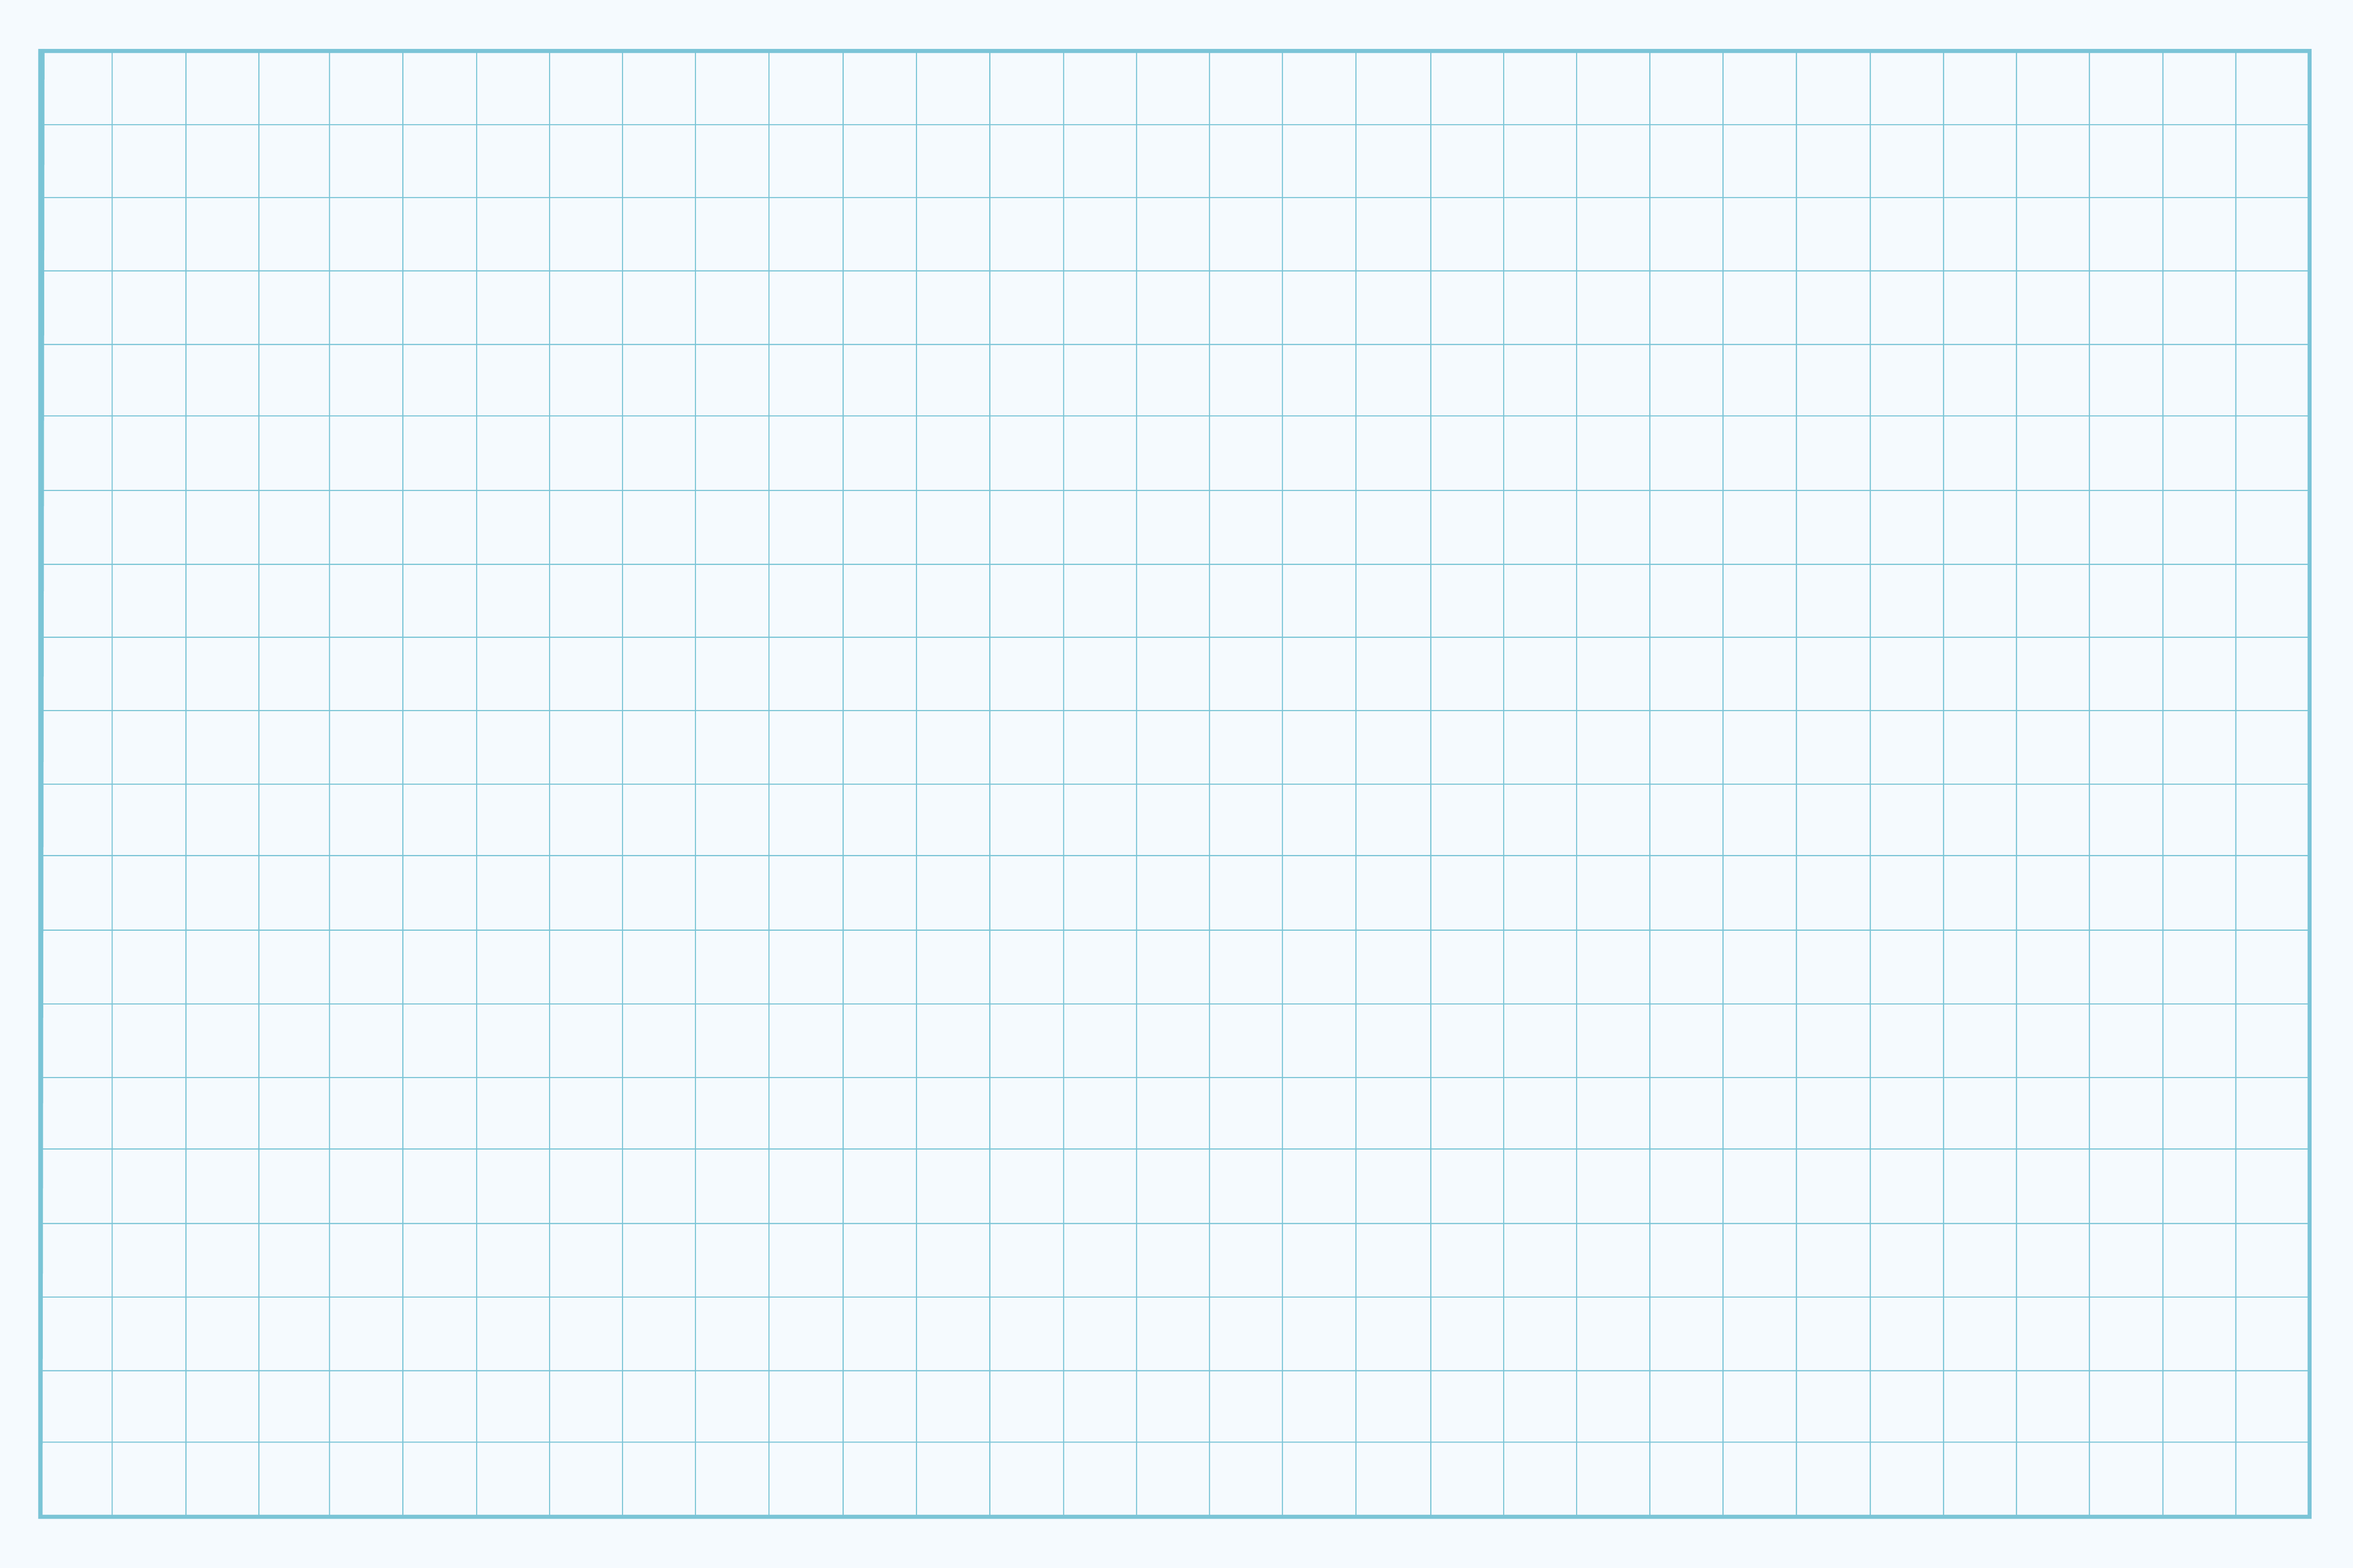
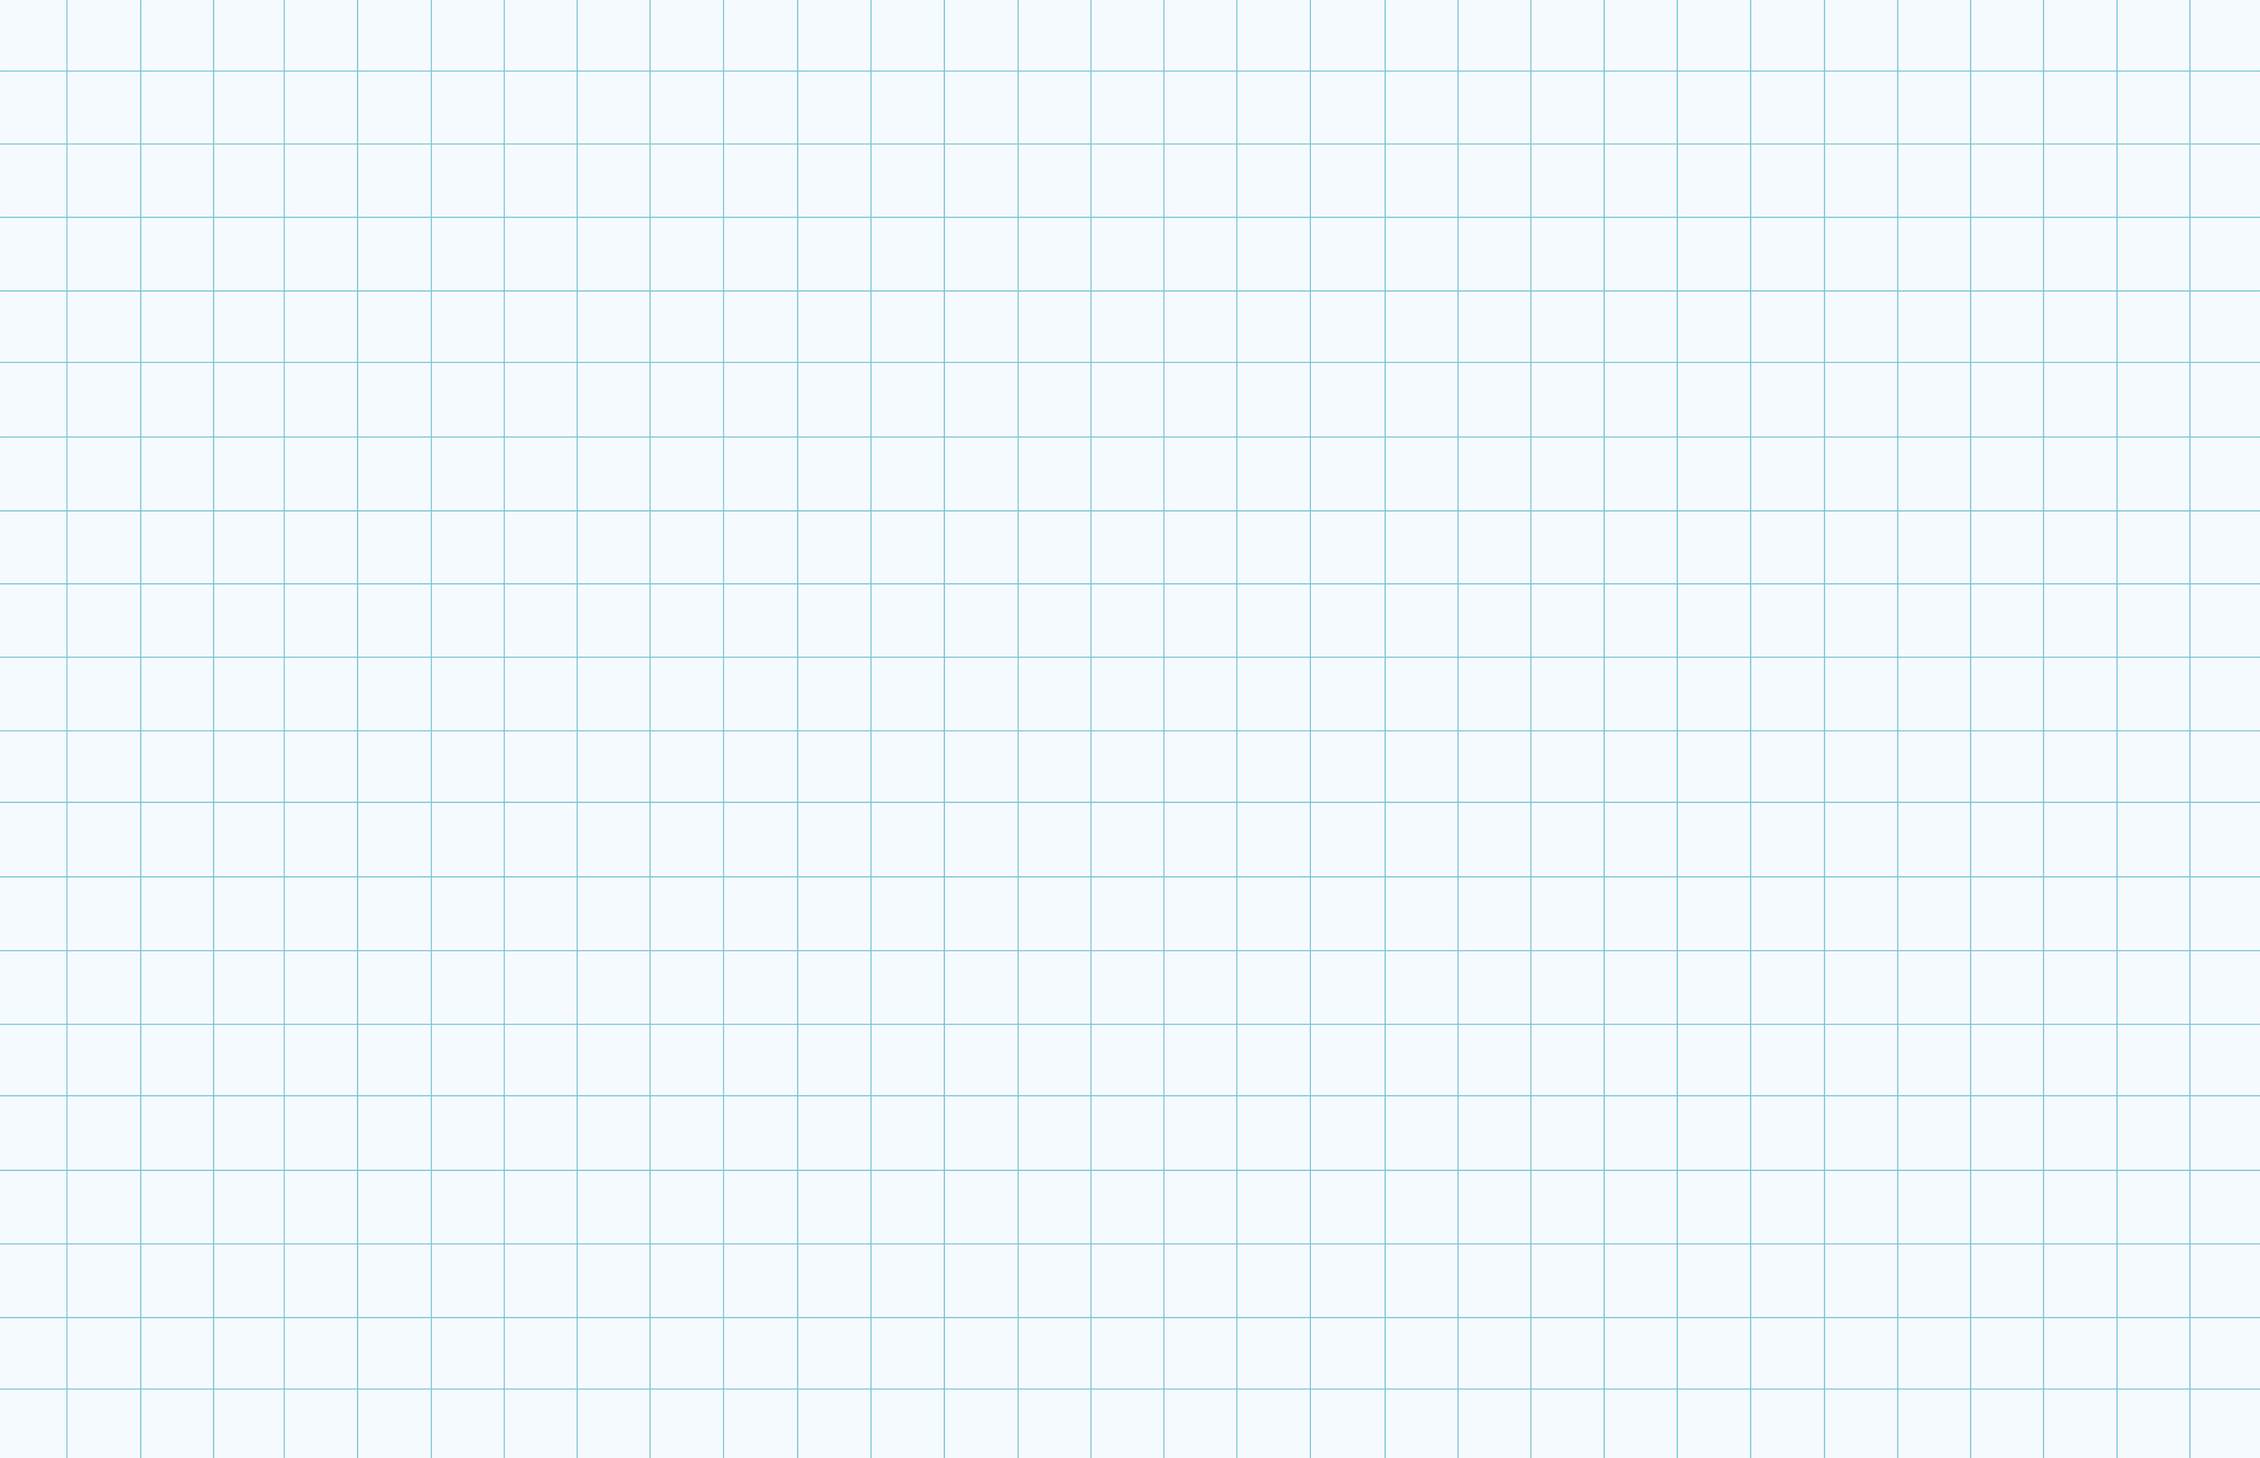
update background image size

diff --git a/output.css b/output.css
@@ -203,9 +203,6 @@
   .m-16 {
     margin: calc(var(--spacing) * 16);
   }
-  .mx-4 {
-    margin-inline: calc(var(--spacing) * 4);
-  }
   .mt-0 {
     margin-top: calc(var(--spacing) * 0);
   }
@@ -220,9 +217,6 @@
   }
   .mt-20 {
     margin-top: calc(var(--spacing) * 20);
-  }
-  .mt-24 {
-    margin-top: calc(var(--spacing) * 24);
   }
   .mb-6 {
     margin-bottom: calc(var(--spacing) * 6);
@@ -258,9 +252,6 @@
     width: 100%;
   }
   .flex-grow {
-    flex-grow: 1;
-  }
-  .grow {
     flex-grow: 1;
   }
   .-rotate-6 {
@@ -308,21 +299,8 @@
   .overscroll-y-none {
     overscroll-behavior-y: none;
   }
-  .border-t {
-    border-top-style: var(--tw-border-style);
-    border-top-width: 1px;
-  }
-  .border-\[\#004466\] {
-    border-color: #004466;
-  }
   .bg-white {
     background-color: var(--color-white);
-  }
-  .bg-white\/50 {
-    background-color: color-mix(in srgb, #fff 50%, transparent);
-    @supports (color: color-mix(in lab, red, red)) {
-      background-color: color-mix(in oklab, var(--color-white) 50%, transparent);
-    }
   }
   .p-2 {
     padding: calc(var(--spacing) * 2);
@@ -339,11 +317,8 @@
   .py-1 {
     padding-block: calc(var(--spacing) * 1);
   }
-  .py-2 {
-    padding-block: calc(var(--spacing) * 2);
-  }
-  .py-8 {
-    padding-block: calc(var(--spacing) * 8);
+  .py-4 {
+    padding-block: calc(var(--spacing) * 4);
   }
   .pb-2 {
     padding-bottom: calc(var(--spacing) * 2);
@@ -389,9 +364,6 @@
   .text-\[\#004466\] {
     color: #004466;
   }
-  .text-gray-400 {
-    color: var(--color-gray-400);
-  }
   .text-white {
     color: var(--color-white);
   }
@@ -401,11 +373,6 @@
   .shadow-lg {
     --tw-shadow: 0 10px 15px -3px var(--tw-shadow-color, rgb(0 0 0 / 0.1)), 0 4px 6px -4px var(--tw-shadow-color, rgb(0 0 0 / 0.1));
     box-shadow: var(--tw-inset-shadow), var(--tw-inset-ring-shadow), var(--tw-ring-offset-shadow), var(--tw-ring-shadow), var(--tw-shadow);
-  }
-  .backdrop-blur-sm {
-    --tw-backdrop-blur: blur(var(--blur-sm));
-    -webkit-backdrop-filter: var(--tw-backdrop-blur,) var(--tw-backdrop-brightness,) var(--tw-backdrop-contrast,) var(--tw-backdrop-grayscale,) var(--tw-backdrop-hue-rotate,) var(--tw-backdrop-invert,) var(--tw-backdrop-opacity,) var(--tw-backdrop-saturate,) var(--tw-backdrop-sepia,);
-    backdrop-filter: var(--tw-backdrop-blur,) var(--tw-backdrop-brightness,) var(--tw-backdrop-contrast,) var(--tw-backdrop-grayscale,) var(--tw-backdrop-hue-rotate,) var(--tw-backdrop-invert,) var(--tw-backdrop-opacity,) var(--tw-backdrop-saturate,) var(--tw-backdrop-sepia,);
   }
   .transition-transform {
     transition-property: transform, translate, scale, rotate;
@@ -612,11 +579,6 @@ h1 {
   syntax: "*";
   inherits: false;
 }
-@property --tw-border-style {
-  syntax: "*";
-  inherits: false;
-  initial-value: solid;
-}
 @property --tw-font-weight {
   syntax: "*";
   inherits: false;
@@ -690,42 +652,6 @@ h1 {
   inherits: false;
   initial-value: 0 0 #0000;
 }
-@property --tw-backdrop-blur {
-  syntax: "*";
-  inherits: false;
-}
-@property --tw-backdrop-brightness {
-  syntax: "*";
-  inherits: false;
-}
-@property --tw-backdrop-contrast {
-  syntax: "*";
-  inherits: false;
-}
-@property --tw-backdrop-grayscale {
-  syntax: "*";
-  inherits: false;
-}
-@property --tw-backdrop-hue-rotate {
-  syntax: "*";
-  inherits: false;
-}
-@property --tw-backdrop-invert {
-  syntax: "*";
-  inherits: false;
-}
-@property --tw-backdrop-opacity {
-  syntax: "*";
-  inherits: false;
-}
-@property --tw-backdrop-saturate {
-  syntax: "*";
-  inherits: false;
-}
-@property --tw-backdrop-sepia {
-  syntax: "*";
-  inherits: false;
-}
 @property --tw-duration {
   syntax: "*";
   inherits: false;
@@ -757,7 +683,6 @@ h1 {
       --tw-rotate-z: initial;
       --tw-skew-x: initial;
       --tw-skew-y: initial;
-      --tw-border-style: solid;
       --tw-font-weight: initial;
       --tw-tracking: initial;
       --tw-shadow: 0 0 #0000;
@@ -774,15 +699,6 @@ h1 {
       --tw-ring-offset-width: 0px;
       --tw-ring-offset-color: #fff;
       --tw-ring-offset-shadow: 0 0 #0000;
-      --tw-backdrop-blur: initial;
-      --tw-backdrop-brightness: initial;
-      --tw-backdrop-contrast: initial;
-      --tw-backdrop-grayscale: initial;
-      --tw-backdrop-hue-rotate: initial;
-      --tw-backdrop-invert: initial;
-      --tw-backdrop-opacity: initial;
-      --tw-backdrop-saturate: initial;
-      --tw-backdrop-sepia: initial;
       --tw-duration: initial;
       --tw-ease: initial;
       --tw-scale-x: 1;

diff --git a/index.html b/index.html
@@ -69,7 +69,7 @@
             </div>
           </div>
         </main>
-        <footer class="py-2">
+        <footer class="py-4">
           <div class="text-center text-[#004466] tracking-wide">
             <a href="mailto:rapajul1@gmail.com" class="hover:underline">contact rapajul1 [at] gmail.com</a>
           </div>
